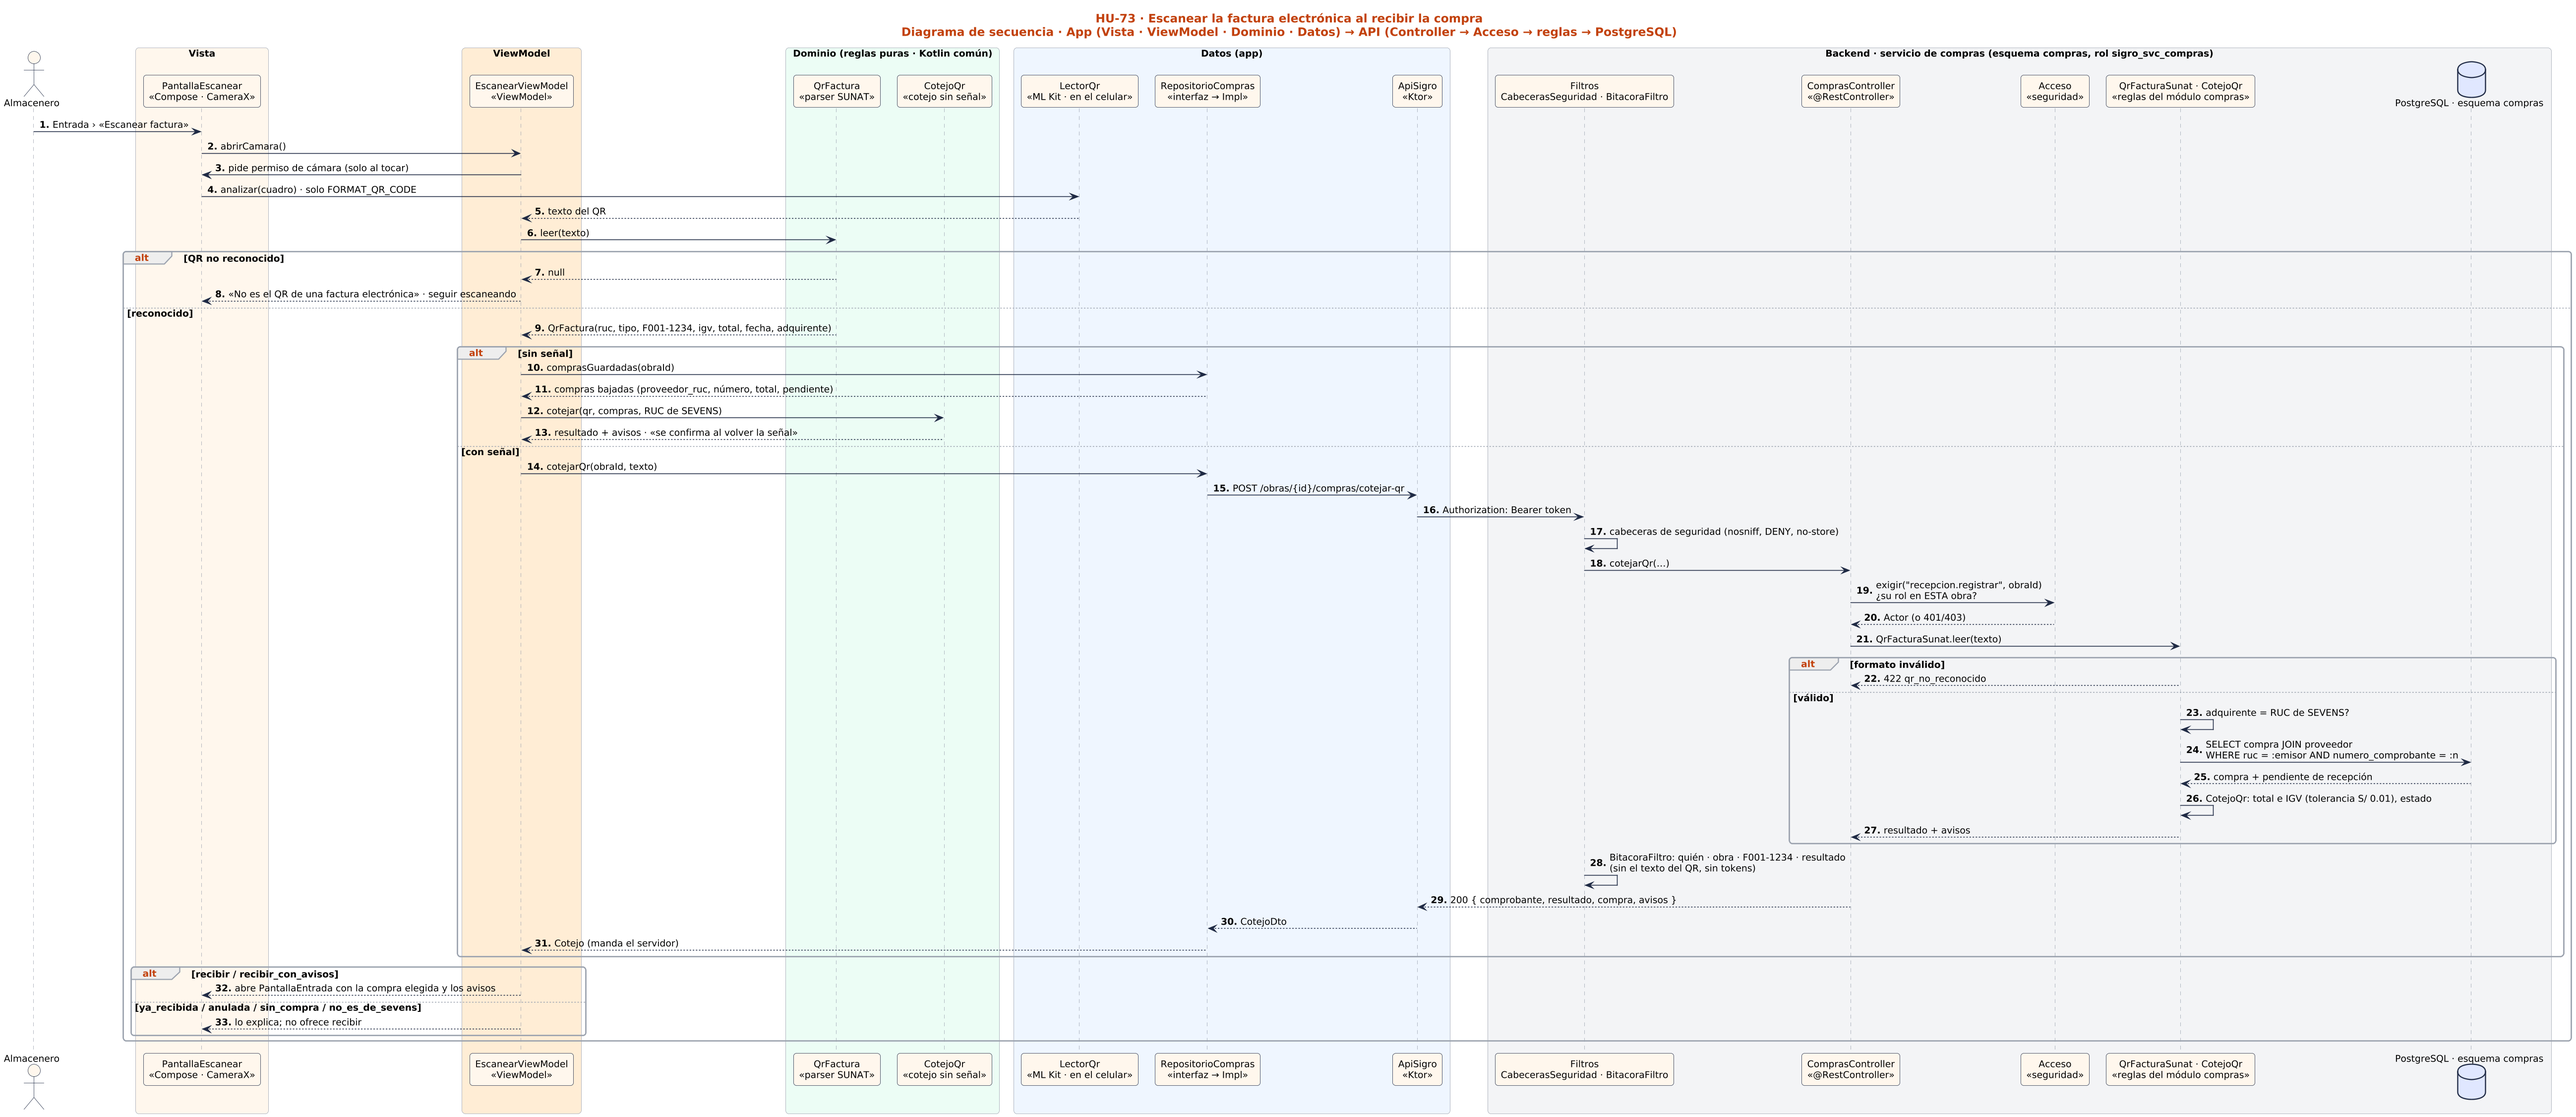
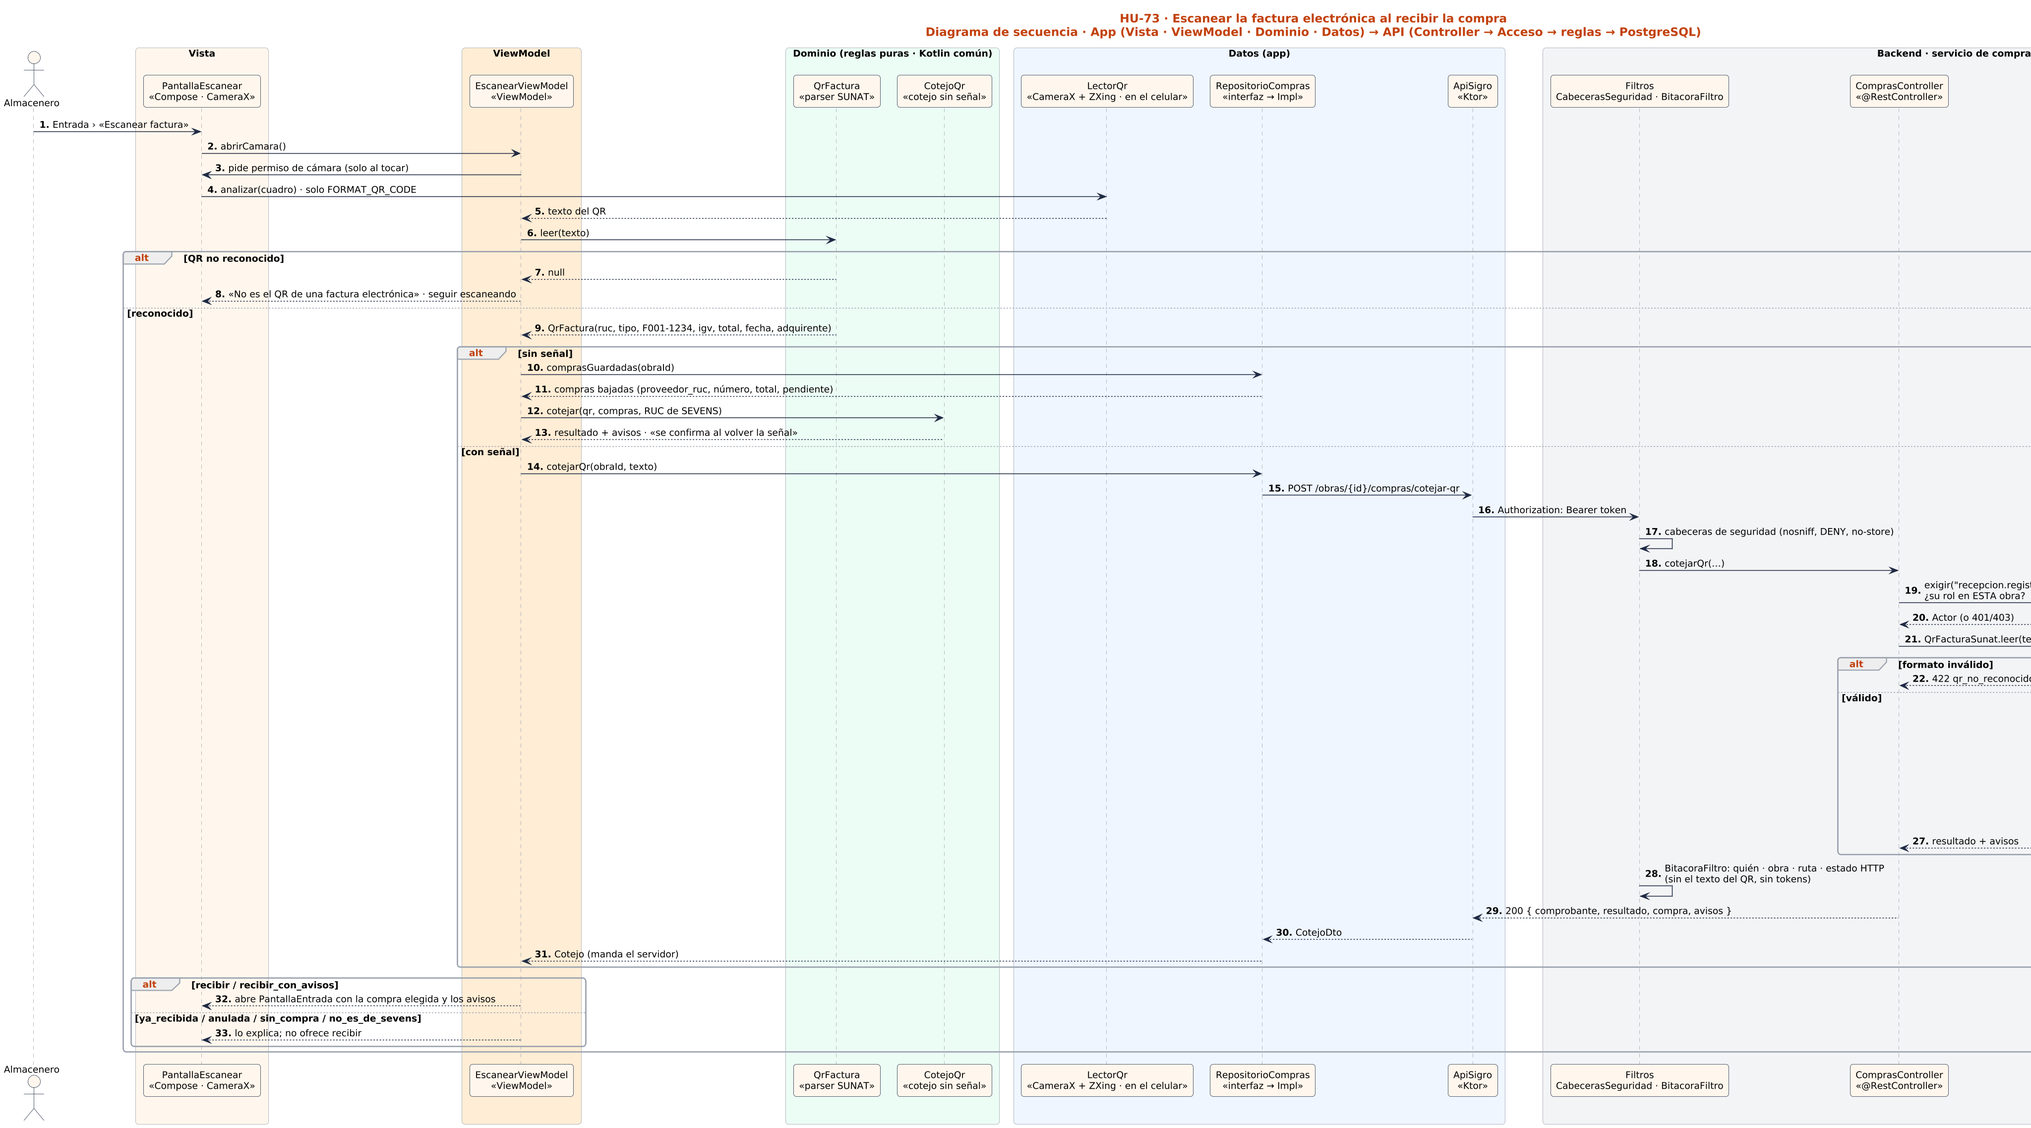
docs: contrato HU-73 corregido con las observaciones de Adiel
- Criterio 8: el texto del QR no se guarda; la bitácora registra ruta y
  estado HTTP como en toda la API (sin migración).
- Anulada: el motivo va en avisos con texto fijo.
- Varias compras con la misma serie-número: mismo tipo › vigente › id mayor.
- Textos exactos de los avisos (total, IGV, fecha, tipo, anulada) y moneda
  (S/ o US$); orden de los avisos.
- Números guardados con ceros: se normalizan los dos lados.
- Sección 2: frase del separador completada.
- 3.2: basta proveedor_ruc (total, IGV, fecha y moneda ya vienen).
- App: ZXing en vez de ML Kit (+0,5 MB en vez de +14 MB, sin telemetría).
- JSON compartido: 8 casos nuevos de cotejo con avisos y compra_id esperados.
- Secuencia HU-73 al día.

Claude-Session: https://claude.ai/code/session_01PtGmXDVgEBa1Hp6paBTjbG

diff --git a/docs/contratos/hu-73-escanear-factura.md b/docs/contratos/hu-73-escanear-factura.md
@@ -21,7 +21,8 @@ Depende de: HU-32 (compra), HU-35 (recepción), HU-31 (padrón SUNAT).
 5. Si la compra ya está **recibida por completo** o **anulada**, lo dice y no ofrece recibirla.
 6. Si no hay compra con ese comprobante, ofrece avisar al residente (no la registra el almacenero: CR-05).
 7. Con señal, el servidor vuelve a hacer el cotejo (la app no es la única que decide).
-8. El texto del QR no se guarda entero en la bitácora (solo serie-número y resultado).
+8. El texto del QR no se guarda en ningún lado: ni en la base ni en la bitácora, que registra solo ruta y estado HTTP, como en toda la API.
+   (Corrección del 27/11: la bitácora no tiene columnas para la serie-número y no vale una migración solo para eso.)
 
 ## 2. El QR de la factura electrónica (SUNAT)
 
@@ -41,9 +42,11 @@ El QR del comprobante electrónico trae los datos separados por `|`, en este ord
 | 10+ | Resumen / firma | (opcional) | se ignora |
 
 **Normalización (la misma en la app y en el servidor):**
-- `numero_comprobante` = `SERIE-NÚMERO` sin ceros a la izquierda en el número: `F001` + `00001234` → `F001-1234`
-  (así se guarda hoy en `compras.compra`).
-- Espacios alrededor de cada campo se quitan; el separador puede venir como `|`.
+- `numero_comprobante` = `SERIE-NÚMERO` sin ceros a la izquierda en el número: `F001` + `00001234` → `F001-1234`.
+- **Los dos lados se normalizan al comparar**: al registrar la compra no se quitan los ceros, así que una compra
+  guardada como `F001-00001234` coincide con el QR `F001` + `1234` (serie en mayúsculas, número sin ceros a la izquierda).
+- El separador es `|`. Se quitan los espacios alrededor de cada campo y se ignoran los campos que sobren al final
+  (un `|` final vacío, el resumen o la firma).
 - Menos de 9 campos, RUC inválido, tipo desconocido o montos no numéricos → **QR no reconocido** (no se adivina).
 
 Los casos de prueba compartidos están en [`hu-73-qr-casos.json`](hu-73-qr-casos.json): **los dos lados
@@ -83,25 +86,42 @@ Salida 200:
 | `recibir` | hay compra vigente con algo pendiente | abre la recepción de esa compra |
 | `recibir_con_avisos` | coincide, pero difiere el total, el IGV o la fecha | muestra los avisos y deja continuar |
 | `ya_recibida` | la compra ya se recibió por completo | lo dice; no ofrece recibir |
-| `anulada` | la compra está anulada | lo dice con el motivo |
+| `anulada` | la compra está anulada | lo dice; el motivo viene en `avisos` |
 | `sin_compra` | no hay compra con ese proveedor y comprobante | ofrece avisar al residente |
 | `no_es_de_sevens` | el adquirente no es el RUC de SEVENS | advierte; no busca la compra |
 
 Errores: `422 qr_no_reconocido` (no cumple el formato de la sección 2) · `403` sin permiso · `401` sin sesión.
 
-Avisos (texto listo para mostrar), por ejemplo:
-`"El total del QR (S/ 1 180.00) difiere en S/ 118.00 del registrado en la compra (S/ 1 062.00)."`
-Tolerancia: **S/ 0.01** (redondeo).
+**Qué compra se elige** cuando varias tienen el mismo proveedor y la misma serie-número normalizada
+(la base lo permite con distinto tipo de comprobante): 1) la del mismo tipo que el QR, 2) la vigente sobre la anulada,
+3) la más reciente (`id` mayor).
+
+**Avisos: textos exactos** (la app los arma igual sin señal; los prueban los casos del JSON). `M` es el símbolo de la
+moneda de la compra: `S/` para PEN y `US$` para USD. Montos con 2 decimales y miles separados por un espacio.
+Tolerancia de los montos: **0.01** (redondeo).
+
+| Cuándo | Texto |
+|---|---|
+| total distinto | `El total del QR (M 1 180.00) difiere en M 118.00 del registrado en la compra (M 1 062.00).` |
+| IGV distinto | `El IGV del QR (M 180.00) difiere en M 18.00 del registrado en la compra (M 162.00).` |
+| fecha distinta | `La fecha del QR (20/11/2026) no coincide con la registrada en la compra (19/11/2026).` |
+| tipo distinto | `El QR es de una boleta y la compra se registró como factura.` |
+| anulada | `La compra F001-1234 está anulada: <motivo>.` (sin motivo: `La compra F001-1234 está anulada.`) |
+
+Orden de los avisos: total, IGV, fecha, tipo. El número del aviso de anulada es el del QR ya normalizado.
 
 ### 3.2 Cambio pequeño en `GET /obras/{obra_id}/compras`
 
-Agregar `proveedor_ruc` y `total` a cada compra. Lo necesita la app para **cotejar sin señal** con las compras
-que ya bajó (criterio 1). No cambia nada más del listado.
+Agregar `proveedor_ruc` a cada compra. Lo necesita la app para **cotejar sin señal** con las compras
+que ya bajó (criterio 1). El total, el IGV, la fecha y la moneda ya vienen en el listado (`totales.total`,
+`totales.igv`, `fecha`, `moneda`); `total` arriba es opcional. No cambia nada más del listado.
 
 ## 4. Lo que hace la app (Fernando)
 
 1. **Entrada → «Escanear factura»**: pide permiso de cámara solo al tocar (si lo niega, explica y deja seguir a mano).
-2. Cámara con **CameraX + ML Kit Barcode Scanning** (modelo incluido en la app: funciona sin señal; solo `FORMAT_QR_CODE`).
+2. Cámara con **CameraX + ZXing** (Java puro, solo QR: funciona sin señal y sin Google Play Services).
+   Cambio del 27/11: ML Kit con el modelo incluido sumaba 14 MB de librerías nativas (APK de 9 a 24 MB) y
+   envía datos de uso a Google; ZXing suma 0,5 MB y no envía nada. No cambia el contrato con el servidor.
 3. `dominio/QrFactura.kt`: parser puro (Kotlin común) con la sección 2 → `QrFactura` o `null`. Probado con el JSON compartido.
 4. **Sin señal**: cotejo local contra las compras ya bajadas (`proveedor_ruc` + `numero_comprobante`, total con tolerancia
    S/ 0.01) → mismos `resultado` que el servidor. Muestra «se confirmará al volver la señal».
@@ -121,7 +141,7 @@ Vista → ViewModel → dominio (`QrFactura`, `CotejoQr`) → repositorio → AP
 |---|---|---|
 | 0 | Revisa y aprueba este contrato (PR `hu73-contrato-qr`) | Abre el PR del contrato y la HU-73 en el Backlog |
 | 1 | `QrFacturaSunat.java` (parser) + JUnit con el JSON compartido | `QrFactura.kt` (parser) + pruebas con el mismo JSON |
-| 2 | `proveedor_ruc` y `total` en `GET /compras` (3.2) | Cámara: CameraX + ML Kit, permiso y pantalla «Escanear» |
+| 2 | `proveedor_ruc` y `total` en `GET /compras` (3.2) | Cámara: CameraX + ZXing, permiso y pantalla «Escanear» |
 | 3 | `POST /compras/cotejar-qr` con los 6 resultados + pruebas de API | Cotejo sin señal (`CotejoQr.kt`) + pruebas |
 | 4 | Bitácora: solo serie-número y resultado (criterio 8) | Con señal llama a `cotejar-qr`; integra con Entrada |
 | 5 | **Prueba la app** con una factura real (DoD T8) | **Prueba la API** con Postman/curl (DoD T8) |
@@ -144,7 +164,7 @@ factura real (foto tapada en la evidencia) · aceptado por el PO desde la app.
 - **Adecuación funcional (exactitud):** el comprobante físico se coteja con la compra registrada; un total distinto se ve en la puerta del almacén, no a fin de mes.
 - **Usabilidad (protección contra errores):** no se escribe la serie ni el número a mano, con guantes y en obra.
 - **Seguridad (integridad):** una factura emitida a otra empresa o ya recibida no entra al almacén de SEVENS.
-- **Fiabilidad:** funciona sin señal (modelo de ML Kit en el celular) y el servidor confirma después.
+- **Fiabilidad:** funciona sin señal (el lector ZXing va dentro de la app) y el servidor confirma después.
 
 ## 9. Para empezar (pedido a Claude Code en cada rama)
 
@@ -152,14 +172,14 @@ factura real (foto tapada en la evidencia) · aceptado por el PO desde la app.
 > Lee `docs/contratos/hu-73-escanear-factura.md` y `hu-73-qr-casos.json`. En el módulo compras de backend-spring crea
 > `QrFacturaSunat` (parser, sección 2) y `CotejoQr` (reglas de la sección 3.1, tolerancia S/ 0.01), el endpoint
 > `POST /obras/{obra_id}/compras/cotejar-qr` con `acceso.exigir("recepcion.registrar", obraId)`, y agrega
-> `proveedor_ruc` y `total` a `GET /obras/{obra_id}/compras`. JUnit que lea el JSON compartido (válidos, no
+> `proveedor_ruc` a `GET /obras/{obra_id}/compras`. JUnit que lea el JSON compartido (válidos, no
 > reconocidos y cotejo) y pruebas de API de los 6 resultados y del 422. La bitácora no guarda el texto del QR.
 > Sin migraciones. No cambies el contrato: si hace falta, avisa para corregir primero el documento.
 
 **Fernando · `hu73-app-escanear` (base `main`, con la 1.1.4 ya fusionada):**
 > Lee `docs/contratos/hu-73-escanear-factura.md` y `hu-73-qr-casos.json`. En `android/composeApp` crea en commonMain
 > `dominio/QrFactura.kt` (parser) y `dominio/CotejoQr.kt` (mismos resultados que el servidor), con pruebas que lean
-> el JSON compartido. En androidMain, `LectorQr` con CameraX + ML Kit Barcode Scanning (modelo incluido, solo
+> el JSON compartido. En androidMain, `LectorQr` con CameraX + ZXing (solo
 > QR) y el permiso de cámara pedido al tocar. Pantalla «Escanear factura» desde Entrada, MVVM, que con señal llama a
 > `cotejar-qr` y sin señal usa `CotejoQr` con las compras bajadas; abre la recepción de la compra elegida con sus avisos.
 > Versión 1.2.0 (versionCode 17). Si algo del contrato no alcanza, avisa antes de cambiarlo.
